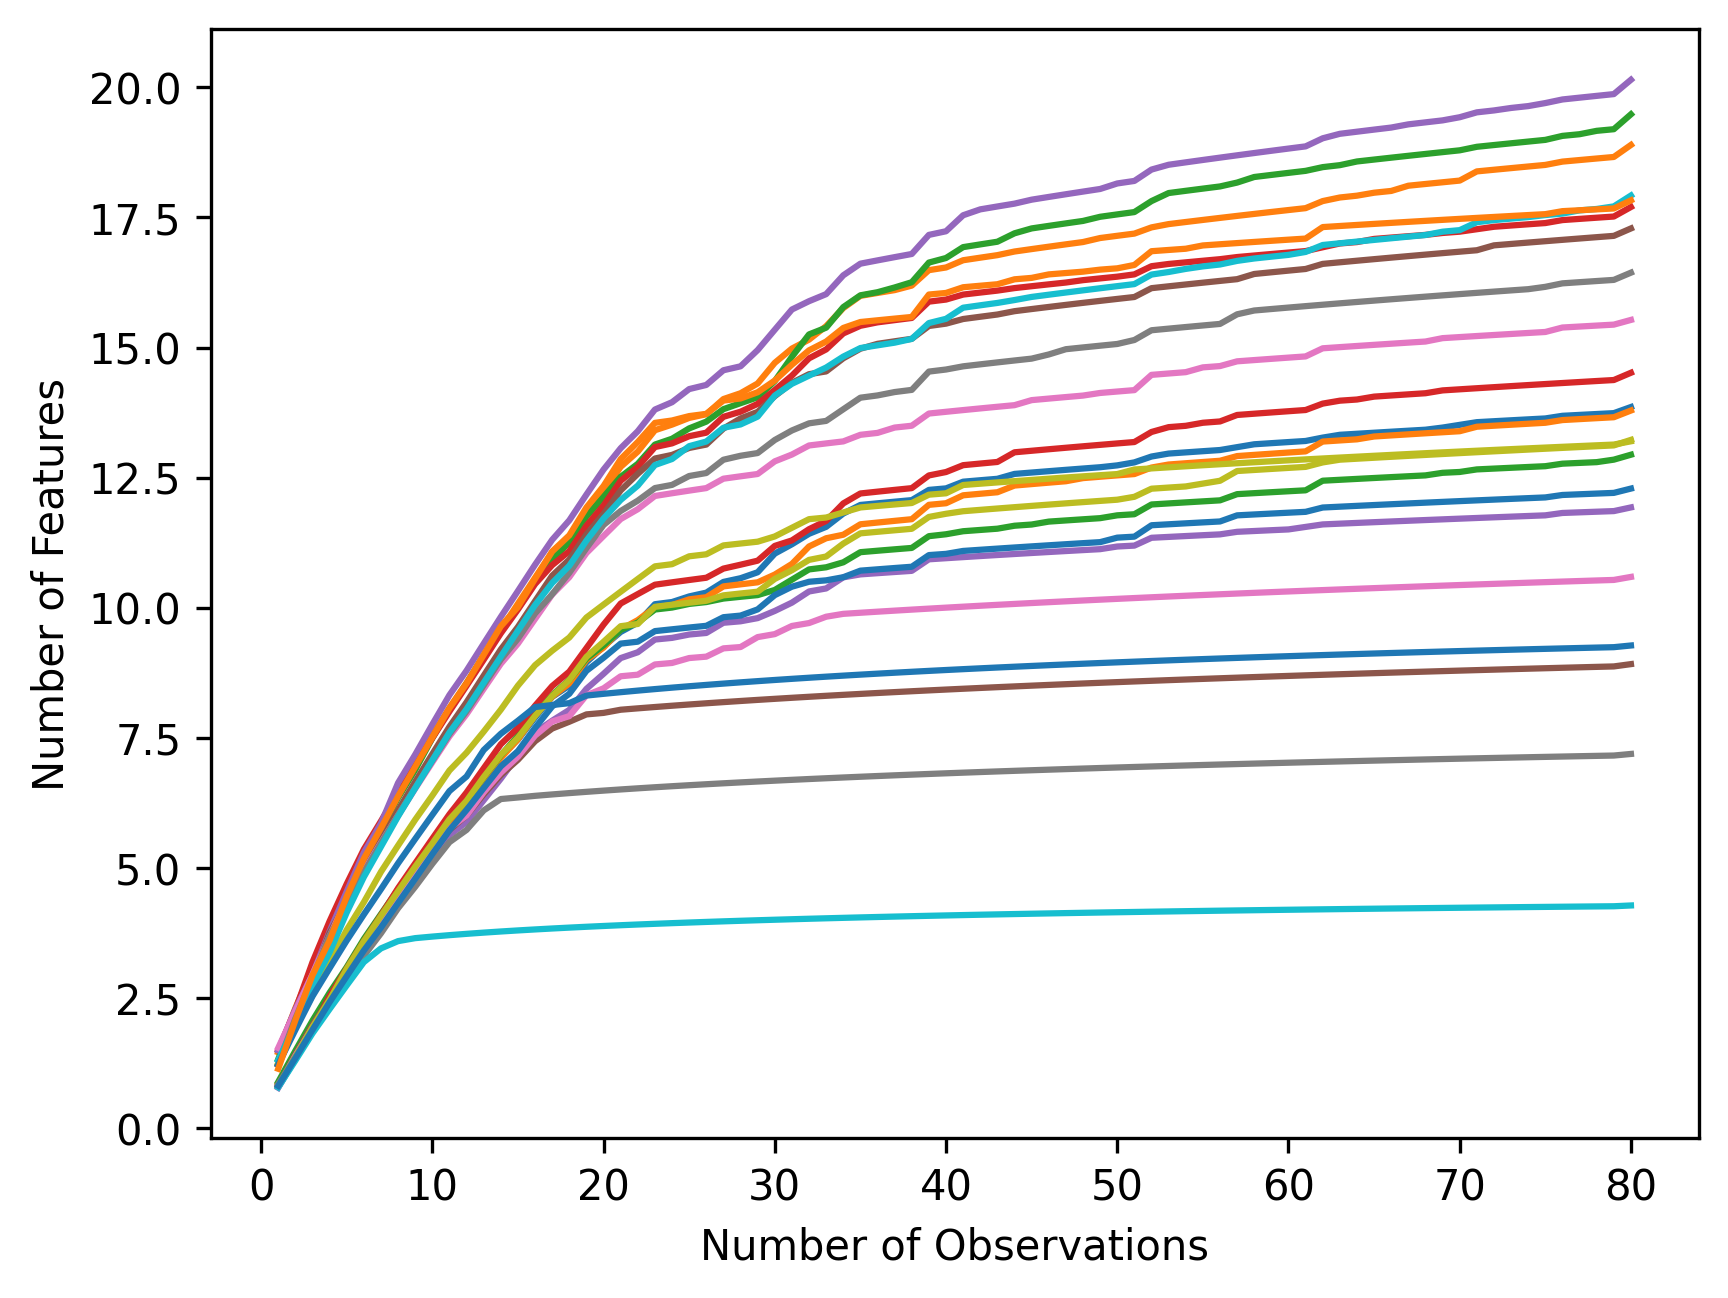
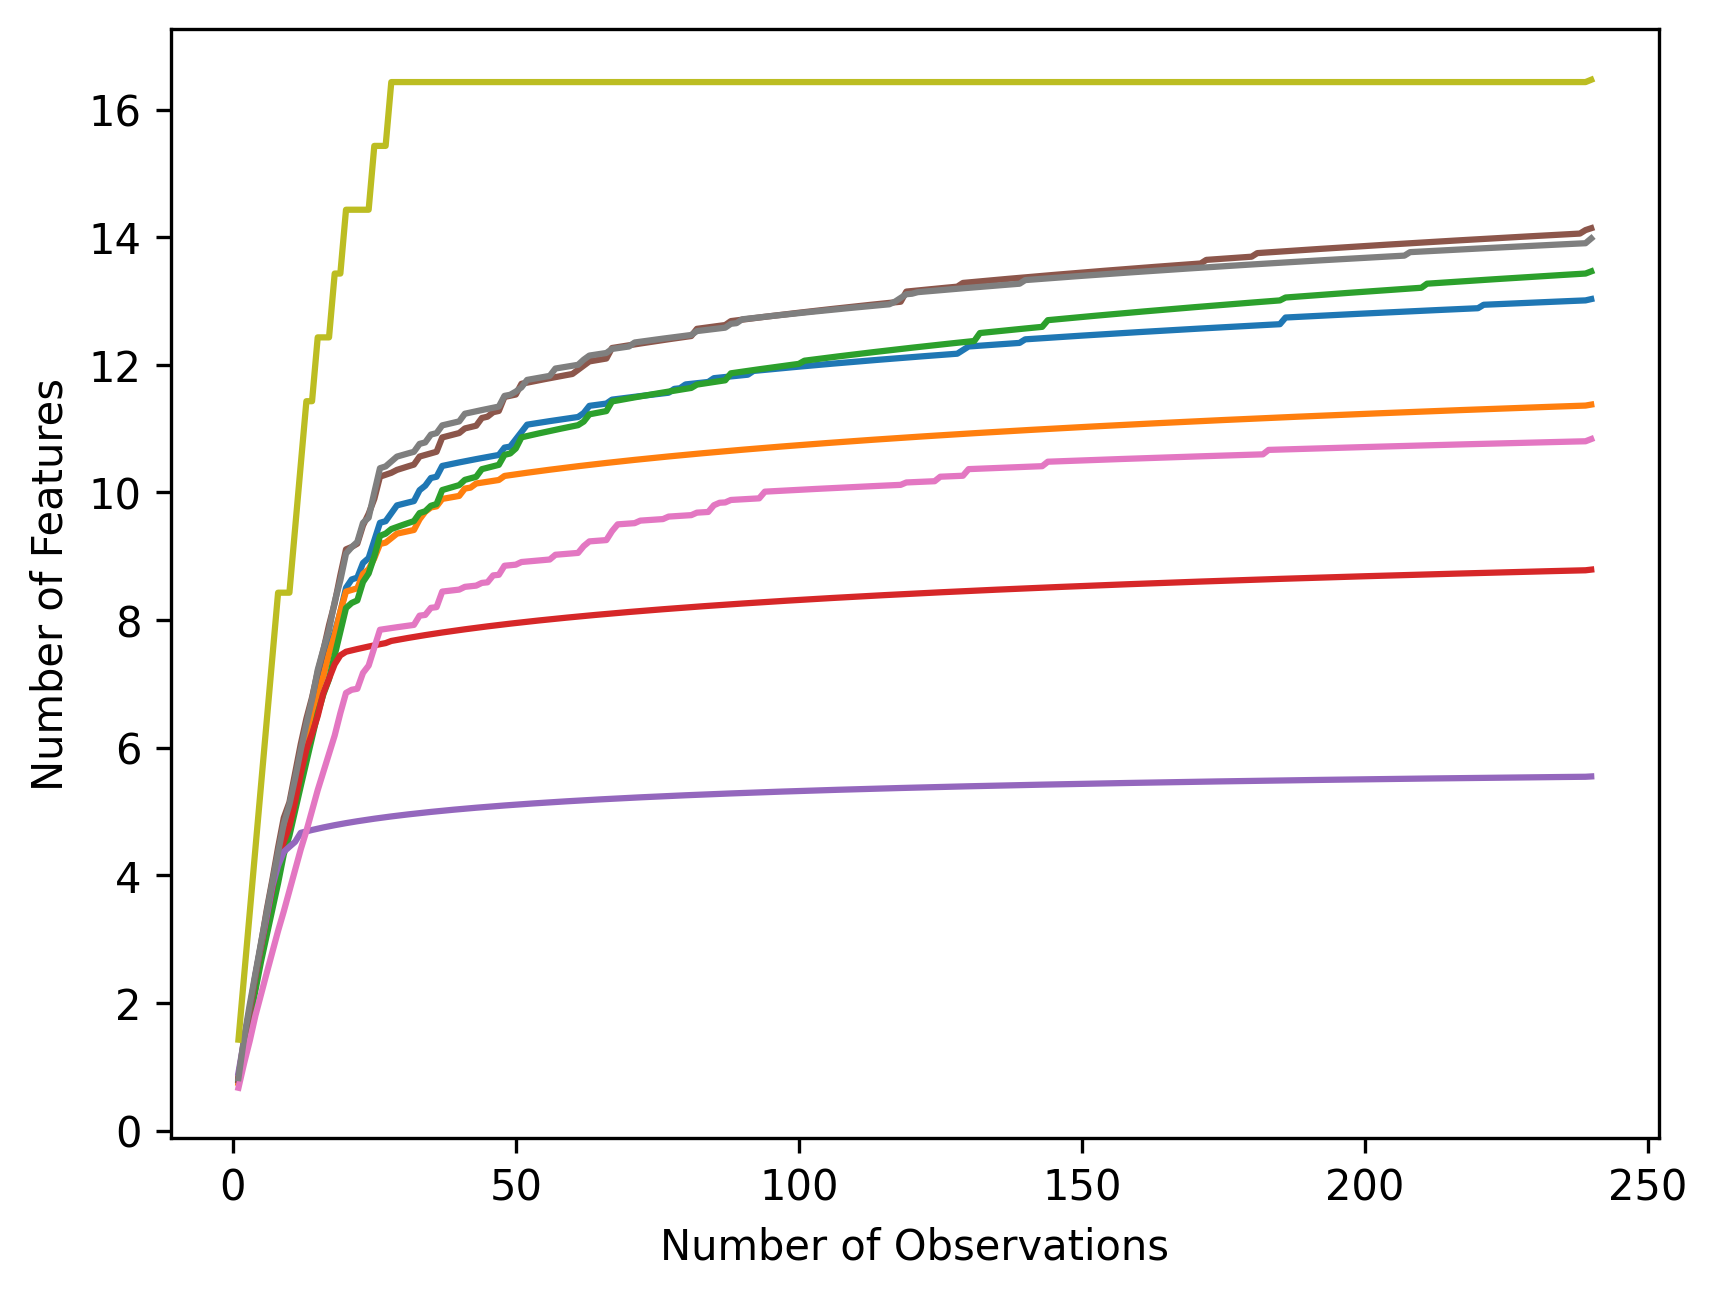
Small changes. Last commit before AISTATS

diff --git a/03_omniglot/analyze_all.py b/03_omniglot/analyze_all.py
@@ -66,12 +66,13 @@ def load_all_inf_alg_results(results_dir_path) -> Tuple[pd.DataFrame,
             stored_data['runtime'],
             stored_data['log_posterior_predictive']['mean']]
 
-        # del stored_data
         inf_algorithms_results_rows.append(inf_algorithms_results_row)
 
         num_features_by_num_obs = stored_data['inference_alg_results'][
             'num_dishes_poisson_rate_posteriors'][:, 0]  # remove extra dimension
         inf_algorithms_num_features_by_num_obs.append(num_features_by_num_obs)
+
+        del stored_data
 
     inf_algorithms_results_df = pd.DataFrame(
         inf_algorithms_results_rows,

diff --git a/03_omniglot/run_all.py b/03_omniglot/run_all.py
@@ -21,7 +21,7 @@ def run_all() -> None:
 
     alphas = np.round(np.arange(1., 5.01, 1.), 4)
     betas = np.round(np.arange(1., 11.01, 1.), 4)
-    sigma_xs = np.round(np.logspace(-2, 2, 5), 4)
+    sigma_xs = np.round(np.logspace(0, 2, 5), 4)
     feature_prior_cov_scalings = np.round(np.logspace(0., 2., 3), 4)[::-1]
     scale_prior_cov_scalings = np.round(np.logspace(0., 2., 4), 4)[::-1]
     inference_alg_strs = [
